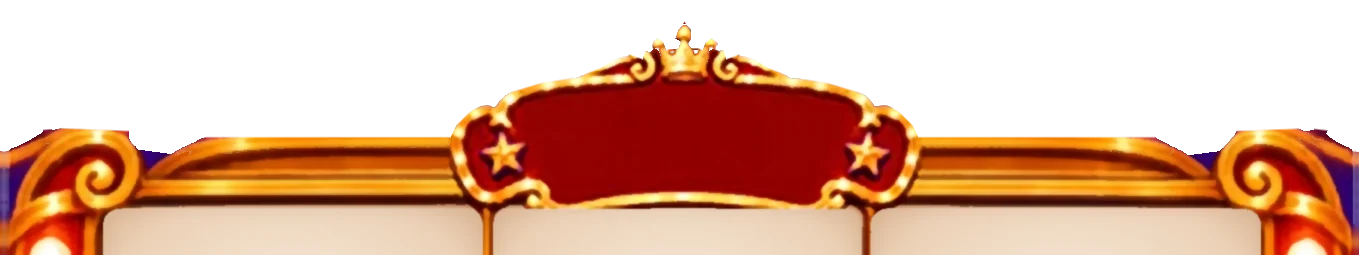
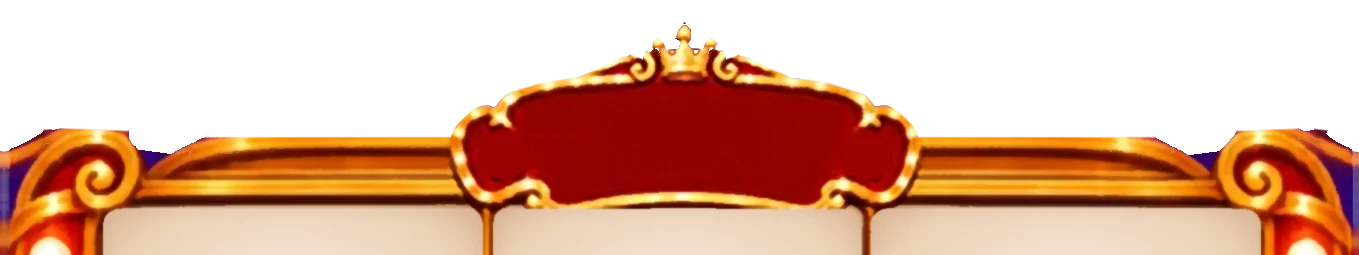
Estrelas dos pilares acendem e apagam com as luzes; placa do topo sem estrelas
- stage_art.py: localiza as 4 estrelas douradas dos pilares (grupo 'star' no
  mapa de luzes) e remove as 2 estrelas da placa do valor ganho
  (machine-front3), preenchendo com o vermelho liso do lóbulo.
- Jogo: estrela tem abafador próprio e brilho em forma de estrela de 5 pontas;
  segue a mesma onda do giro, o pisca dos prêmios e a Rodada Especial.

Claude-Session: https://claude.ai/code/session_01Uu4r9oUEkdrfDt3VrEmVN5

Changed region(s): [[0.34, 0.4941, 0.4018, 0.7137], [0.6181, 0.4941, 0.6799, 0.7137]]

diff --git a/Fortune Circus.dc.html b/Fortune Circus.dc.html
@@ -486,7 +486,7 @@ const FC_TOP_MASK = 'linear-gradient(to right, transparent 0, #000 10px, #000 ca
 // Lâmpadas do cenário em unidades do quadro 453×802 [x, y, raio] (gerado por app/scripts/stage_art.py → bulbs.json).
 // Meia luz das lâmpadas em repouso (opacidade do abafador: 0 = acesa, 1 = apagada).
 const FC_LIGHT_IDLE = 0.72;
-const FC_BULBS = {"stage":[[16.4,235.1,5.95],[435.6,235.7,5.97],[16.0,283.7,6.21],[436.1,284.0,6.29],[15.7,384.6,6.44],[436.9,384.7,6.39],[437.0,440.2,6.31],[15.3,440.2,6.29],[15.1,553.3,6.23],[437.6,553.3,6.22]],"top":[[103.8,50.0,2.3],[91.1,67.4,2.42],[71.8,80.9,2.49],[25.9,87.7,2.61],[48.4,87.5,2.52],[5.6,94.4,2.53]],"bleed":[[13.3,-124.7,3.33],[436.4,-124.5,3.6],[-5.1,-105.1,3.55],[454.9,-105.1,3.81],[476.5,-86.3,3.6],[-26.5,-86.1,3.51],[500.0,-70.3,3.77],[-49.5,-70.2,3.65],[-75.8,-56.6,3.67],[526.1,-56.5,3.77],[-106.8,-47.2,3.7],[557.1,-46.9,3.9],[-140.5,-41.1,3.51],[590.6,-40.9,3.58],[602.3,73.9,2.43],[-35.7,86.3,4.38],[-2.9,86.4,4.2],[575.9,86.5,3.84],[-125.3,86.6,3.43],[453.4,86.7,4.14],[486.6,86.5,3.77],[-62.5,89.3,4.24],[513.1,89.3,3.81],[-94.1,91.6,3.84],[544.2,91.6,3.65],[452.2,203.7,3.97],[-3.3,204.3,4.03],[-28.7,215.4,3.72],[478.8,215.3,3.84],[-99.4,295.8,3.65],[549.6,295.6,3.63],[479.2,303.7,4.05],[-28.3,305.3,4.03],[-62.4,306.6,4.1],[512.8,306.7,3.92],[553.4,873.9,5.42],[-101.0,873.9,5.38],[-30.7,885.7,5.5],[483.7,885.5,5.53],[52.3,895.7,5.67],[400.2,895.8,5.72],[139.0,901.0,5.41],[312.2,901.6,5.82],[224.5,903.1,5.73]]};
+const FC_BULBS = {"stage":[[16.4,235.1,5.95],[435.6,235.7,5.97],[16.0,283.7,6.21],[436.1,284.0,6.29],[15.7,384.6,6.44],[436.9,384.7,6.39],[437.0,440.2,6.31],[15.3,440.2,6.29],[15.1,553.3,6.23],[437.6,553.3,6.22]],"star":[[15.9,334.3,11.3],[15.0,498.1,11.7],[436.3,334.5,11.0],[437.1,498.2,11.7]],"top":[[103.8,50.0,2.3],[91.1,67.4,2.42],[71.8,80.9,2.49],[25.9,87.7,2.61],[48.4,87.5,2.52],[5.6,94.4,2.53]],"bleed":[[13.3,-124.7,3.33],[436.4,-124.5,3.6],[-5.1,-105.1,3.55],[454.9,-105.1,3.81],[476.5,-86.3,3.6],[-26.5,-86.1,3.51],[500.0,-70.3,3.77],[-49.5,-70.2,3.65],[-75.8,-56.6,3.67],[526.1,-56.5,3.77],[-106.8,-47.2,3.7],[557.1,-46.9,3.9],[-140.5,-41.1,3.51],[590.6,-40.9,3.58],[602.3,73.9,2.43],[-35.7,86.3,4.38],[-2.9,86.4,4.2],[575.9,86.5,3.84],[-125.3,86.6,3.43],[453.4,86.7,4.14],[486.6,86.5,3.77],[-62.5,89.3,4.24],[513.1,89.3,3.81],[-94.1,91.6,3.84],[544.2,91.6,3.65],[452.2,203.7,3.97],[-3.3,204.3,4.03],[-28.7,215.4,3.72],[478.8,215.3,3.84],[-99.4,295.8,3.65],[549.6,295.6,3.63],[479.2,303.7,4.05],[-28.3,305.3,4.03],[-62.4,306.6,4.1],[512.8,306.7,3.92],[553.4,873.9,5.42],[-101.0,873.9,5.38],[-30.7,885.7,5.5],[483.7,885.5,5.53],[52.3,895.7,5.67],[400.2,895.8,5.72],[139.0,901.0,5.41],[312.2,901.6,5.82],[224.5,903.1,5.73]]};
 const FC_NATIVE_HAP = () => { try { const C = window.Capacitor; return !!(C && C.nativePromise && (C.PluginHeaders || []).some(h => h.name === 'FcHaptics')); } catch (e) { return false; } };
 class Component extends DCLogic {
   fxRef = React.createRef();
@@ -1379,13 +1379,20 @@ class Component extends DCLogic {
       stops.forEach(([o, col]) => g.addColorStop(o, col)); x.fillStyle = g; x.fillRect(0, 0, 64, 64); return c.toDataURL('image/png'); };
     const dimSrc = bmp([[0, 'rgba(36,10,6,.84)'], [.3, 'rgba(36,10,6,.72)'], [.55, 'rgba(26,6,22,.38)'], [1, 'rgba(26,6,22,0)']]);
     const glowSrc = bmp([[0, '#fffbe8'], [.16, 'rgba(255,238,175,1)'], [.36, 'rgba(255,204,92,.7)'], [.68, 'rgba(255,150,40,.2)'], [1, 'rgba(255,140,30,0)']]);
+    // estrela dourada do pilar: brilho em forma de estrela de 5 pontas
+    const starSrc = (() => { const c = document.createElement('canvas'); c.width = c.height = 96; const x = c.getContext('2d');
+      const g = x.createRadialGradient(48, 48, 0, 48, 48, 48); g.addColorStop(0, 'rgba(255,236,160,.85)'); g.addColorStop(.35, 'rgba(255,200,80,.45)'); g.addColorStop(1, 'rgba(255,160,40,0)');
+      x.fillStyle = g; x.fillRect(0, 0, 96, 96);
+      x.shadowColor = 'rgba(255,214,90,1)'; x.shadowBlur = 14; x.fillStyle = '#fff6c2'; x.beginPath();
+      for (let i = 0; i < 10; i++) { const a = -Math.PI / 2 + i * Math.PI / 5, r = i % 2 ? 11 : 26; x.lineTo(48 + Math.cos(a) * r, 48 + Math.sin(a) * r); }
+      x.closePath(); x.fill(); x.fill(); return c.toDataURL('image/png'); })();
     const make = (src, x, y, d, op) => { const i = new Image(); i.src = src; i.alt = ''; i.decoding = 'sync';
       i.style.cssText = 'position:absolute;left:' + (x - d / 2).toFixed(1) + 'px;top:' + (y - d / 2).toFixed(1) + 'px;width:' + d.toFixed(1) + 'px;height:' + d.toFixed(1) + 'px;opacity:' + op + ';pointer-events:none;will-change:opacity,transform;backface-visibility:hidden;transform:translateZ(0);';
       host.appendChild(i); return i; };
     // tamanho do abafador/brilho por grupo: pilar é estreito (não pode escurecer as casas dos rolos)
-    const K = { stage: [3.2, 4.6], top: [6, 7], bleed: [6.5, 7] }, list = [];
+    const K = { stage: [3.2, 4.6], star: [1.25, 2.1], top: [6, 7], bleed: [6.5, 7] }, list = [];
     Object.keys(FC_BULBS).forEach(g => FC_BULBS[g].forEach(([x, y, r]) => {
-      const dim = make(dimSrc, x, y, r * 2 * K[g][0], FC_LIGHT_IDLE), glow = make(glowSrc, x, y, r * 2 * K[g][1], 0);
+      const dim = make(dimSrc, x, y, r * 2 * K[g][0], FC_LIGHT_IDLE), glow = make(g === 'star' ? starSrc : glowSrc, x, y, r * 2 * K[g][1], 0);
       list.push({ x, y, dim, glow, i: list.length });
     }));
     this._lightIdle = FC_LIGHT_IDLE;

diff --git a/app/scripts/stage_art.py b/app/scripts/stage_art.py
@@ -11,6 +11,7 @@ Entradas (originais, não são alteradas):
 Saídas:
   assets/stage-hd-c.webp, assets/fx/top-layer3.webp     (cor A)
   assets/bleed/stage-bleed.webp                          (palco, cor A; jogo e Home)
+  assets/fx/machine-front3.webp                          (placa do topo sem as 2 estrelas)
   app/scripts/bulbs.json                                 (lâmpadas em unidades do quadro 453×802)
 Uso: python3 app/scripts/stage_art.py [--preview pasta]
 """
@@ -115,6 +116,58 @@ def halo_mask(shape, bulbs, k):
     return np.asarray(m.filter(ImageFilter.GaussianBlur(rmax * 1.2))).astype(np.float32) / 255
 
 
+def gold_blobs(rgba, k, region, minpx=150):
+    """Manchas douradas saturadas (estrelas, aros) dentro de region (unidades): [(cx, cy, w, h)] em unidades."""
+    rgb, a = rgba[..., :3], rgba[..., 3]
+    mx, mn = rgb.max(-1), rgb.min(-1)
+    sat = (mx - mn) / np.maximum(mx, 1e-4)
+    r, g, b = rgb[..., 0], rgb[..., 1], rgb[..., 2]
+    gold = (mx > 0.72) & (sat > 0.45) & (r >= g) & (g > b * 1.25) & (r - g < 0.45) & (a > 0.5)
+    H, W = gold.shape
+    yy, xx = np.mgrid[0:H, 0:W]
+    x0, y0, x1, y1 = [v * k for v in region]
+    gold &= (xx >= x0) & (xx <= x1) & (yy >= y0) & (yy <= y1)
+    seen = np.zeros_like(gold)
+    out = []
+    for sy, sx in zip(*np.nonzero(gold)):
+        if seen[sy, sx]:
+            continue
+        q, pts = deque([(sy, sx)]), []
+        seen[sy, sx] = True
+        while q:
+            y, x = q.popleft()
+            pts.append((y, x))
+            for dy, dx in ((1, 0), (-1, 0), (0, 1), (0, -1)):
+                Y, X = y + dy, x + dx
+                if 0 <= Y < H and 0 <= X < W and gold[Y, X] and not seen[Y, X]:
+                    seen[Y, X] = True
+                    q.append((Y, X))
+        if len(pts) > minpx:
+            ys, xs = np.array(pts).T
+            out.append((xs.mean() / k, ys.mean() / k, (xs.max() - xs.min()) / k, (ys.max() - ys.min()) / k))
+    return out
+
+
+def fill_disks(rgba, centers, k, r_in, r_out):
+    """Apaga o que há dentro de cada disco (raio r_in, unidades) preenchendo com a média do anel até r_out
+    ponderada pela distância: serve para superfícies lisas (placa vermelha), não para tecido."""
+    out = rgba.copy()
+    H, W = rgba.shape[:2]
+    yy, xx = np.mgrid[0:H, 0:W]
+    for cx, cy in centers:
+        X, Y = cx * k, cy * k
+        d = np.hypot(xx - X, yy - Y)
+        inner, ring = d <= r_in * k, (d > r_in * k) & (d <= r_out * k)
+        rr = rgba[..., :3][ring]
+        # só o vermelho do lóbulo entra na média (o aro dourado não)
+        keep = (rr[:, 0] > rr[:, 1] * 1.6) & (rr.max(-1) < 0.8)
+        rr = rr[keep] if keep.sum() > 20 else rr
+        col = np.median(rr, 0)
+        soft = np.clip((r_in * k + 2.5 - d) / 5, 0, 1)[..., None]  # borda suave
+        out[..., :3] = out[..., :3] * (1 - soft) + col * soft
+    return out
+
+
 def load(path):
     return np.asarray(Image.open(P(path)).convert('RGBA')).astype(np.float32) / 255
 
@@ -140,6 +193,16 @@ def main():
     b = find_bulbs(a, 41, 600, 1600, region)  # lâmpadas dos pilares têm raio ≈ 6 unidades; brilho de estrelas/ornamentos fica abaixo de 4,5
     save(grade_a(a[..., :3]), None, 'assets/stage-hd-c.webp')
     out['stage'] = [[round(x / k, 1), round(y / k, 1), round(r / k, 2)] for x, y, r in b]
+    # estrelas douradas dos pilares (≈ 18×22 unidades): também acendem e apagam
+    st = [blob for side in ((0, 300, 45, 520), (408, 300, 453, 520)) for blob in gold_blobs(a, k, side) if 14 < blob[2] < 26 and 18 < blob[3] < 28]
+    out['star'] = [[round(x, 1), round(y, 1), round(max(w, h) / 2, 1)] for x, y, w, h in st]
+
+    # placa do topo (mostra o valor ganho): as 2 estrelas saem
+    a = load('assets/fx/machine-front3.png'); k = a.shape[1] / 453
+    cs = [(x, y) for x, y, w, h in gold_blobs(a, k, (140, 35, 320, 70), 80) if 9 < w < 15 and 9 < h < 15]
+    assert len(cs) == 2, cs
+    f = fill_disks(a, cs, k, 8.5, 11.5)
+    save(f[..., :3], f[..., 3], 'assets/fx/machine-front3.webp')
 
     # 2) cortina do topo (3 px por unidade, 453×235): varal de luzes
     a = load('assets/fx/top-layer3.png'); H, W = a.shape[:2]; k = W / 453

diff --git a/guidelines/asset-pipeline.md b/guidelines/asset-pipeline.md
@@ -64,6 +64,7 @@ Formato: "Isso tende a falhar porque X. Para acertar preciso de Y. Custo estimad
 | out/2026 | Palco com sangria (bleed) para todos os formatos de tela | Meshy gpt-image-2 via GitHub Actions, 1 tentativa | 12 | Não estendeu: redesenhou a cena (máquina menor, chão de madeira). Serviu como fundo: arte original por cima, recortada pela forma da máquina (máscara SVG) |
 | out/2026 | Palco vazio (só o fundo, sem máquina/personagem/nuvem) | Meshy gpt-image-2 com o palco anterior como referência | 12 | Aprovado: mesmo enquadramento, centro vazio; virou assets/bleed/stage-bleed.webp |
 | out/2026 | Cor A (roxo-magenta festivo) + mapa de lâmpadas (60) das artes do cenário | Código (`app/scripts/stage_art.py`), arte original preservada | 0 | Aprovado. Apagar a luz pintada na própria arte borrava o tecido; a meia luz é um "abafador" desenhado pelo jogo |
+| out/2026 | Estrelas: 2 da placa do topo removidas; 4 dos pilares viram luzes | Código (`stage_art.py`: preenchimento com o vermelho liso do lóbulo; mapa `star`) | 0 | Aprovado |
 | Saldo atual (Meshy, 09/out) | | | 915 | O log anterior dizia 1808; o saldo real antes das gerações de out/2026 era 939 |
 
 
